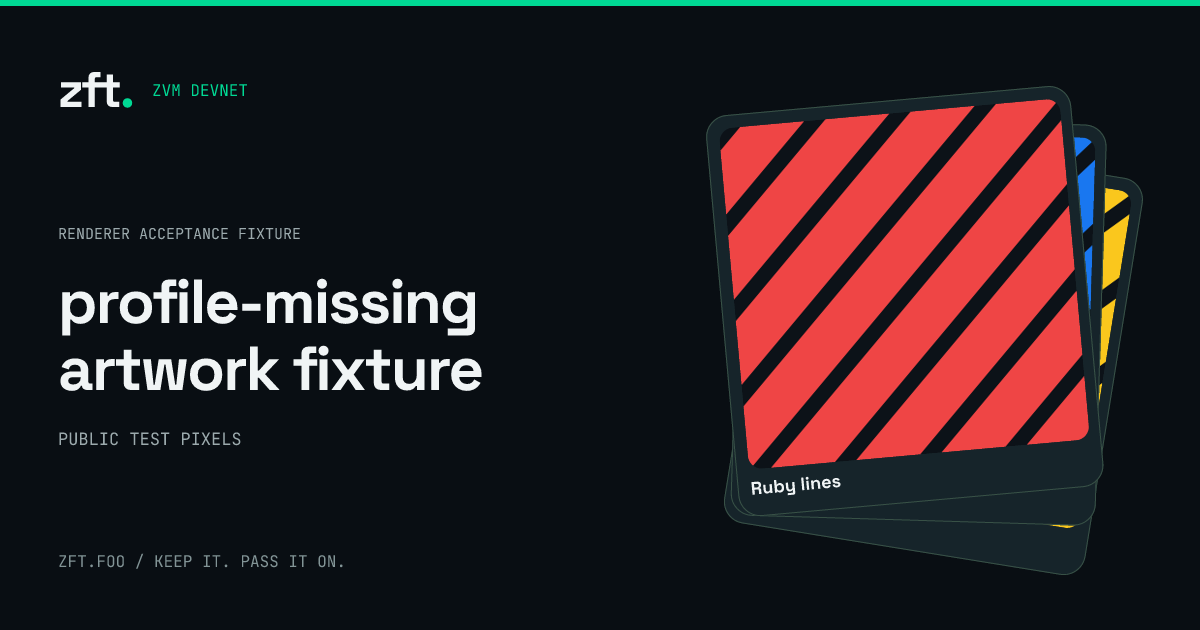
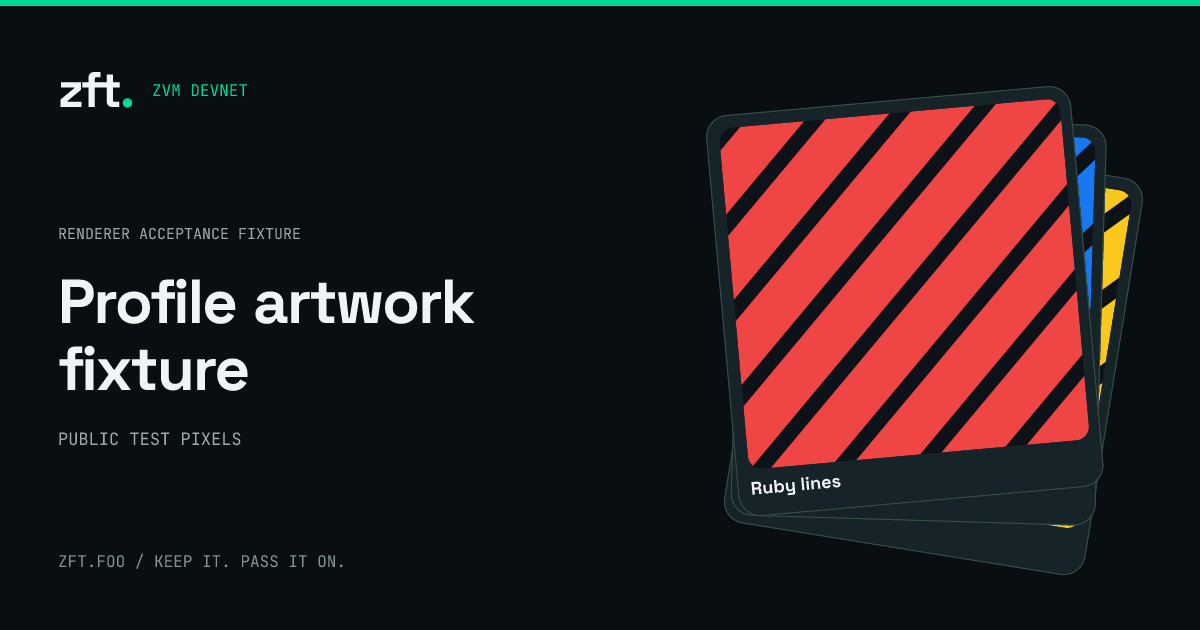
test: verify profile sharing pixels and reset retention

Changed region(s): [[0.0308, 0.5127, 0.4008, 0.6333], [0.0308, 0.4222, 0.4008, 0.5429]]

diff --git a/scripts/check-profile-media.ts b/scripts/check-profile-media.ts
@@ -136,13 +136,18 @@ if (prefix === "hosted") {
       .replaceAll("&amp;", "&");
   };
   const before = await ogURL();
-  const response = await fetch(before);
-  assert.equal(response.status, 200);
-  const bytes = new Uint8Array(await response.arrayBuffer()),
-    image = decode(bytes);
-  assert.equal(image.width, 1200);
-  assert.equal(image.height, 630);
-  assert(bytes.length <= 1_048_576);
+  const fetchOG = async (url: string) => {
+    const response = await fetch(url);
+    assert.equal(response.status, 200);
+    assert.equal(response.headers.get("content-type"), "image/png");
+    const bytes = new Uint8Array(await response.arrayBuffer());
+    assert(bytes.length > 0 && bytes.length <= 1_048_576);
+    const image = decode(bytes);
+    assert.equal(image.width, 1200);
+    assert.equal(image.height, 630);
+    return { bytes, image };
+  };
+  const { bytes, image } = await fetchOG(before);
   await writeFile("research/r4-profile-og.png", bytes);
   const reset = await save({ avatar: null, cover: null });
   revision = reset.profile.revision;
@@ -150,7 +155,10 @@ if (prefix === "hosted") {
   assert.equal(reset.profile.cover, null);
   const after = await ogURL();
   assert.notEqual(after, before);
-  assert.equal((await fetch(before)).status, 200); // Previously shared public pixels remain readable.
+  const resetImage = await fetchOG(after);
+  assert.notDeepEqual(resetImage.image.data, image.data);
+  const retainedImage = await fetchOG(before);
+  assert.deepEqual(retainedImage.bytes, bytes);
   const restored = await save({
     avatar: { image: base64(images.avatar) },
     cover: { image: base64(images.cover) },
@@ -162,6 +170,15 @@ if (prefix === "hosted") {
     bytes: bytes.length,
     width: image.width,
     height: image.height,
+    sha256: sha256(bytes),
+    reset: {
+      bytes: resetImage.bytes.length,
+      width: resetImage.image.width,
+      height: resetImage.image.height,
+      sha256: sha256(resetImage.bytes),
+      pixelsChanged: true,
+    },
+    retainedSha256: sha256(retainedImage.bytes),
   };
 }
 await writeFile(

diff --git a/apps/web/src/profile-media.tsx b/apps/web/src/profile-media.tsx
@@ -72,6 +72,7 @@ function CropDialog({
         applying.current = false;
       }
       if (data.loaded) {
+        if (url) URL.revokeObjectURL(url);
         url = URL.createObjectURL(
           new Blob([data.loaded.bytes], { type: "image/png" }),
         );

diff --git a/docs/IMPLEMENTATION.md b/docs/IMPLEMENTATION.md
@@ -4,7 +4,7 @@ This roadmap tracks delivered work and the balance of the ZFT specification. The
 
 ## Roadmap status
 
-This is the work tracker for the [complete functional specification](FUNCTIONAL-SPEC.md). Update it in the same change as implementation or acceptance evidence. Last reconciled: **2026-10-05**, merged baseline **`0499b58`** ([PR #4](https://github.com/0x3639/zft/pull/4)); current increment **`feat/profile-media`**, R4 profile media in [PR #5](https://github.com/0x3639/zft/pull/5). PR #4’s final head `fc852e4` passed CI and CodeRabbit reported minimal merge risk with no actionable blockers; its monitor is stopped. Live Worker **`1f5abf97-d8ce-4db2-ae3f-1f0f604d5fc3`** ([R4 deployment evidence](../research/r4-deployment.json)). R4 is implemented and deployed; review is pending.
+This is the work tracker for the [complete functional specification](FUNCTIONAL-SPEC.md). Update it in the same change as implementation or acceptance evidence. Last reconciled: **2026-10-05**, merged baseline **`0499b58`** ([PR #4](https://github.com/0x3639/zft/pull/4)); current increment **`feat/profile-media`**, R4 profile media in [PR #5](https://github.com/0x3639/zft/pull/5). PR #4’s final head `fc852e4` passed CI and CodeRabbit reported minimal merge risk with no actionable blockers; its monitor is stopped. Live Worker **`5e7fdf99-4375-4657-aa77-76a5ae46f4de`** ([PR #5 review evidence](../research/pr5-review.json)). R4 is implemented and deployed; CodeRabbit follow-up review is pending.
 
 Status meanings: **Complete** means the stated deliverable and its listed verification are complete; it does not imply all release gates passed. **In progress** means work is underway. **Next** means ready to implement. **Pending acceptance** means code exists but the specified real-world check remains. **Deferred** means a separately scoped protocol or launch decision is required. Do not use a percentage: these workstreams differ substantially in effort.
 
@@ -184,3 +184,11 @@ The initial public beta remains clearly labeled ZVM devnet and collectible-only.
 The proposal/prototype and hosted alpha now exist. Continue implementation with focused changes for the roadmap IDs and functional-spec acceptance IDs above. CI checks TypeScript/build, protocol vectors, meaningful service tests, contract suites, and end-to-end scenarios as they become applicable. Documentation/prototype changes need focused link/syntax/layout checks rather than transaction canaries for unchanged code.
 
 Cloudflare beta deployments use a scoped environment; PR previews have separate services and no beta sponsor authority. Production/mainnet deployment is not triggered merely by merging a UI change. Contract deployment requires explicit network/key configuration and verification of the approved source artifact.
+
+[PR #5](https://github.com/0x3639/zft/pull/5) review of `44ebe88`, addressed 2026-10-05 (America/Chicago):
+
+- [Post-reset OG validation](https://github.com/0x3639/zft/pull/5#discussion_r4190522976): confirmed acceptance gap. The hosted canary now fetches and decodes the new PNG, validates status/type/dimensions/size, requires changed pixels, and compares the original image byte-for-byte after refetch. The hosted reset image is 36,071 bytes; the original 141,396-byte image remains identical.
+- Renderer nitpick: confirmed. Matching-title fixtures now check separate avatar/cover pixel regions and zero matches for missing media. All eight workerd fixtures pass and now run in CI.
+- Blob URL nitpick: the normal worker sends one load, but the handler now also revokes a preceding URL on replacement, retaining its existing unmount cleanup.
+- The generic 80% docstring suggestion is not a required CI check or a correctness issue; no blanket comments were added to self-explanatory functions.
+- **186 app tests**, typecheck/build/Worker dry run and the stronger hosted canary pass. Deployed Worker **`5e7fdf99-4375-4657-aa77-76a5ae46f4de`** has the verified frontend bundle and healthy index; [evidence](../research/pr5-review.json). No migration, contract or route changes. Follow-up review and CI for the new commit remain pending; real extension/device acceptance stays R6.

diff --git a/docs/PAGES-AND-SHARING.md b/docs/PAGES-AND-SHARING.md
@@ -212,7 +212,7 @@ Observed dynamic routes are `/api/og/p/<profile>.jpg?v=<revision>`, `/api/og/p/<
 
 The alpha already embeds actual NFT images from R2 into generated 1200×630 PNGs. `apps/api/sharing.ts` selects up to three profile artworks and one selected/standalone item; `apps/api/og-render.tsx` draws them. [The hosted First Momentum canary](../research/sharing/page-1.png) visibly contains its real minted artwork, so the pipeline is not just a generic logo renderer.
 
-Implementation update: profile images use eligible current holdings, with an eligible featured holding first, then publication recency and a stable token tie-breaker. Cards include titles. Selected historical epochs have distinct retained-publication guards and revisions. The streaming derivative pipeline supports canonical art up to 24 MP/10 MiB with a 65,536-pixel scanline-width bound. Independent avatar rendering and market image contexts remain incomplete. Static home/explore/activity images currently have no NFT art. Any future dynamic discovery collage must use a bounded public snapshot rather than arbitrary request-time scans.
+Implementation update: profile images use eligible current holdings, with an eligible featured holding first, then publication recency and a stable token tie-breaker. Cards include titles. Selected historical epochs have distinct retained-publication guards and revisions. The streaming derivative pipeline supports canonical art up to 24 MP/10 MiB with a 65,536-pixel scanline-width bound. R4 adds independent avatar and cover rendering. Home and both discovery pages include up to three artwork candidates from their directory queries, deduplicated by token, with branded fallback during an optional discovery outage. Activity remains a branded static card; market image contexts remain future work.
 
 ### Additional acceptance evidence
 
@@ -221,3 +221,5 @@ Render fixtures with 0, 1, 2 and 4 distinct eligible NFTs and visually confirm e
 ## Profile media revisions (R4)
 
 Profile and selected-artwork snapshots include optional `profileMedia` with the wallet address and immutable avatar/cover hashes. The full snapshot digest includes these references, so media changes create a new OG URL while existing public snapshots retain their old pixels. The renderer loads only the bounded admitted R2 namespace, verifies source hashes and caches 480px derivatives. Missing images fall back independently. The avatar appears beside the brand and the cover becomes a subdued background; NFT artwork remains the foreground collage. Reset does not revoke already-shared images or external social caches. Standalone item and static-page snapshots retain their prior behavior.
+
+The hosted profile-media canary fetches the post-reset PNG, checks status/type, 1200×630 dimensions and the 1 MiB limit, and requires changed decoded pixels. It refetches the original OG URL and requires byte-for-byte equality. Renderer fixtures use the same profile title and separately assert avatar and cover pixels in regions outside the title and NFT collage, with zero matches in the missing-media fallback. These eight renderer fixtures also run in CI.

diff --git a/docs/DEVNET-ALPHA.md b/docs/DEVNET-ALPHA.md
@@ -221,3 +221,5 @@ Uploads use the existing wallet-authenticated profile request. Browser normaliza
 Profile images are served by the existing devnet Worker at `/profile-media/:address/:hash.png`; no contract, binding or apex routing change is required. Reproduce the signed SDK checks with `ZFT_TEST_ORIGIN=https://devnet.zft.foo node --import tsx scripts/check-profile-media.ts`. Generated fixture keys remain in ignored `.local/`; no ownership transactions are sent. `node scripts/check-og-renderer.mjs` covers eight bounded sharing-image fixtures including profile media and missing-image fallback. Real extension/device acceptance remains R6.
 
 R4 deployed as Worker **`1f5abf97-d8ce-4db2-ae3f-1f0f604d5fc3`** on 2026-10-05 (America/Chicago). Migration counts remained seven profiles, 32 journal events and two possessions. **186 app tests**, typecheck, frontend build, Worker dry run and eight local OG fixtures pass. [Hosted evidence](../research/hosted-profile-media.json) confirms both images in one signed save, stale-save 409, omission preservation, immutable PNG bytes and distinct bounded 1200×630 OG images after reset. [UI evidence](../research/r4-ui.json) uses a generated signer fixture, not a real wallet extension.
+
+PR #5 review follow-up deployed as Worker **`5e7fdf99-4375-4657-aa77-76a5ae46f4de`** on 2026-10-05 (America/Chicago). The crop preview revokes replaced blob URLs. The signed hosted check now validates the actual post-reset PNG and byte-for-byte retention of the original OG image; matching-title renderer fixtures independently require avatar/cover pixels and run in CI. **186 app tests**, typecheck/build/Worker dry run and all eight fixtures pass. [Deployment and review evidence](../research/pr5-review.json) records the hosted bundle hash and checks. Existing migration 0007, data and routes remain unchanged.
